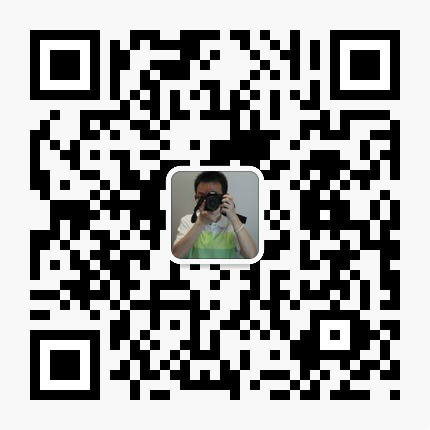
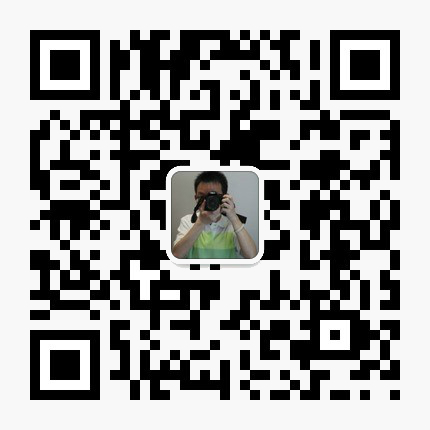
update weixin image

diff --git a/404.html b/404.html
@@ -11,7 +11,7 @@ layout: default
         <li>检查刚才输入的网址</li>
         <li>点击二维码返回网站首页</li>
         <li>扫二维码关注Cherry's Blog公众微信平台</li>
-        <li>如有任何意见或建议，可以随时发<a href="mailto:cherry@cherryleer.com" class="dsq-brlink" target="_blank">邮件</a>联系我</li>
+        <li>如有任何意见或建议，可以随时发<a href="mailto:cherryleer@gmail.com" class="dsq-brlink" target="_blank">邮件</a>联系我</li>
     </ul>
 
     <p><img alt="" src="{{site.qiniu_static}}/assets/img/weixin_8cm.jpg"/></p>

diff --git a/ie.html b/ie.html
@@ -25,6 +25,6 @@
   <h1>!</h1>
   <h2>Sorry, the browser you are using is not supported :(</h2>
   <p>Please switch to a modern browser such as Chrome or Firefox, or scan the QR Code and visit from your mobile devices.</p>
-  <img src="assets/img/qrcode.png">
+  <img src="{{site.qiniu_static}}/assets/img/qrcode.png">
 </body>
 </html>
